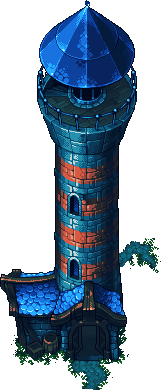
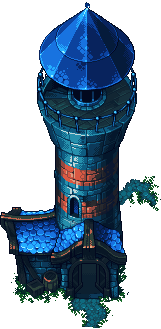
Улучшена отрисовка замка

diff --git a/src/main/java/ru/game/pattern/model/staticObjects/Castle.java b/src/main/java/ru/game/pattern/model/staticObjects/Castle.java
@@ -16,23 +16,31 @@ import static ru.game.pattern.controller.Property.*;
  */
 public class Castle extends StaticPhysicalGameObject {
     private static final String IMAGE_PATH = Property.RESOURSES_PATH + "static/castle.png";
+    private static final String IMAGE2_PATH = Property.RESOURSES_PATH + "static/castle2.png";
     private static final int TERRITORY_RADIUS = 60;
     private static final Point IMAGE_SIZE = new Point(138, 264);
     private int mHealthAddCounter = 1;
     private BufferedImage image;
+    private BufferedImage image2;
 
     public Castle(Point location) throws IOException {
         super(location, TERRITORY_RADIUS, IMAGE_PATH, IMAGE_SIZE);
         helth = CASTLE_MAX_HELTH;
-        additionalIamgeShift = -80;
-        if(IMAGE_PATH!=null) {
+        additionalIamgeShift = -120;
+        if (IMAGE_PATH != null) {
             this.image = ImageIO.read(new File(IMAGE_PATH));
+        }
+        if (IMAGE2_PATH != null) {
+            image2 = ImageIO.read(new File(IMAGE2_PATH));
         }
     }
 
     @Override
     public void drawAfterAll(Graphics2D g) {
-        super.draw(g);
+
+        if(image2!=null) {
+            g.drawImage(image2, location.x - IMAGE_SIZE.x / 2, location.y - IMAGE_SIZE.y / 2 + additionalIamgeShift, null);
+        }
         //отрисовка HP
         g.setColor(Color.black);
         g.fillRect(location.x - IMAGE_SIZE.x/2 - 5, location.y - IMAGE_SIZE.y/2 - 90, IMAGE_SIZE.x+10, 10);

diff --git a/src/main/java/ru/game/pattern/controller/GameControllerImpl.java b/src/main/java/ru/game/pattern/controller/GameControllerImpl.java
@@ -14,6 +14,9 @@ import java.util.LinkedList;
 import java.util.List;
 import java.util.stream.Collectors;
 
+import static ru.game.pattern.controller.Property.CASTLE_LOCATION_X;
+import static ru.game.pattern.controller.Property.CASTLE_LOCATION_Y;
+
 /**
  * Created by Uskov Dmitry on 27.05.2016.
  */
@@ -94,9 +97,8 @@ public class GameControllerImpl implements GameController, Runnable{
         initStaticObjects();
         initEnemy();
         allGameObjects.add(cursor);
-        castle = new Castle(new Point(1000, 300));
+        castle = new Castle(new Point(CASTLE_LOCATION_X, CASTLE_LOCATION_Y));
         addStaticObject(castle);
-        //allGameObjects.add(castle);
         Player.setStaticObjects(getStaticPhysicalGameObjects());
     }
 

diff --git a/src/main/java/ru/game/pattern/controller/Property.java b/src/main/java/ru/game/pattern/controller/Property.java
@@ -10,13 +10,16 @@ public class Property {
 
     public static String RESOURSES_PATH = "src/main/resources/";
 
-    public static boolean DEBUG_MODE = false;
+    public static boolean DEBUG_MODE = true;
 
     public static int START_MONEY = 300;
     public static int MONEY_PER_KILL = 25;
     public static int MAX_PLAYER_COUNT = 5;
     public static int BUY_PLAYER_PAUSE = 50;
     public static int PLAYER_TERRITORY_RADIUS = 8;
+
+    public static int CASTLE_LOCATION_X = 570;
+    public static int CASTLE_LOCATION_Y = 340;
 
     public static int DEFAULT_ATTACK_PAUSE = 8;
     public static int DEFAULT_ATTACK_RADIUS = 8;
